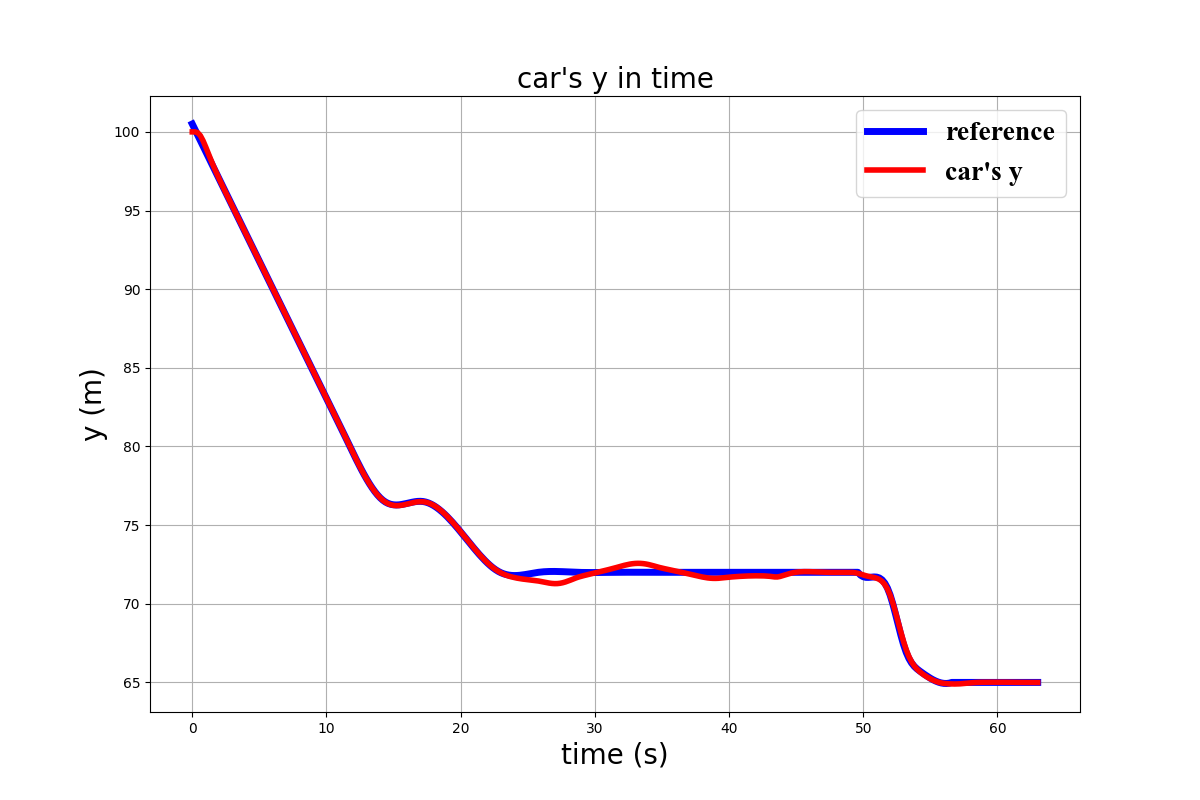
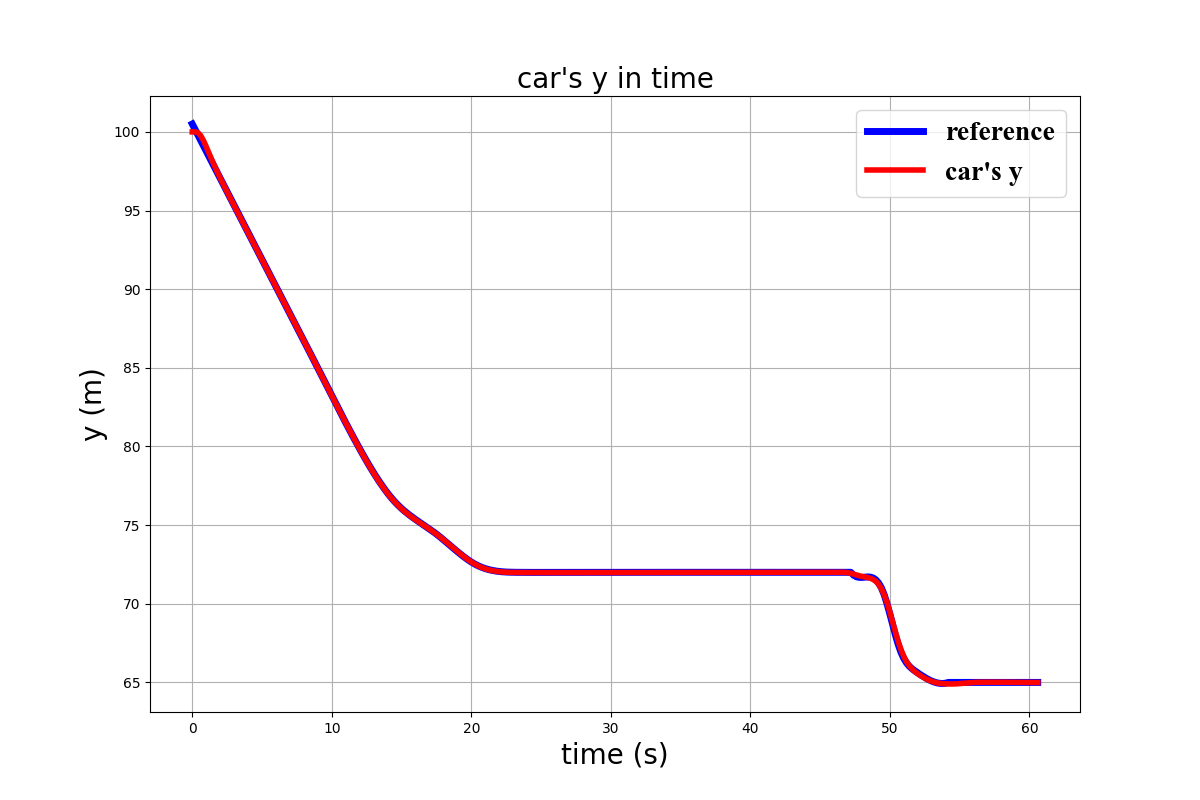
fix wobblyness

diff --git a/CAR kinematic model/pathplanning.py b/CAR kinematic model/pathplanning.py
@@ -293,7 +293,7 @@ class ParkPathPlanning:
         ensure_path2 = np.vstack([np.arange(x_ensure2-4,x_ensure2,0.25),np.repeat(y_ensure2,4/0.25)]).T
         park_path = self.plan_park_down_left(x_ensure2, y_ensure2)
 
-        return np.array([x_ensure1, y_ensure1]), park_path, ensure_path1, ensure_path2
+        return np.array([x_ensure1-4, y_ensure1]), park_path, ensure_path1, ensure_path2
 
     def plan_park_down_left(self, x1,y1):
             s = 4

diff --git a/CAR kinematic model/main_autopark.py b/CAR kinematic model/main_autopark.py
@@ -74,6 +74,9 @@ if __name__ == '__main__':
     print('interpolating ...')
     interpolated_path = interpolate_path(path, sample_rate=5)
     interpolated_park_path = interpolate_path(park_path, sample_rate=2)
+
+    # interpolated_path = path
+    # interpolated_park_path = park_path
     interpolated_park_path = np.vstack([ensure_path1[::-1], interpolated_park_path, ensure_path2[::-1]])
 
     env.draw_path(interpolated_path)
